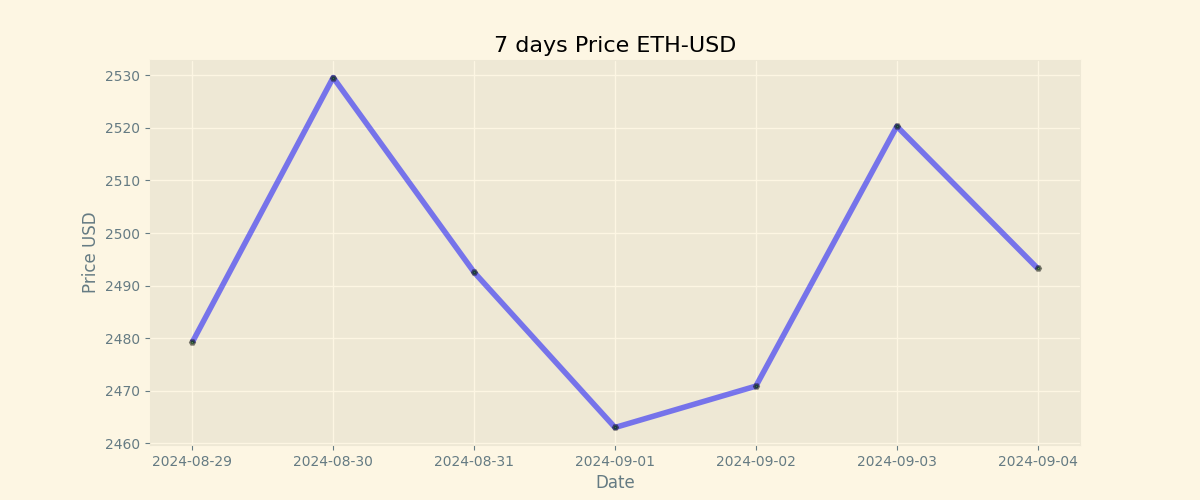
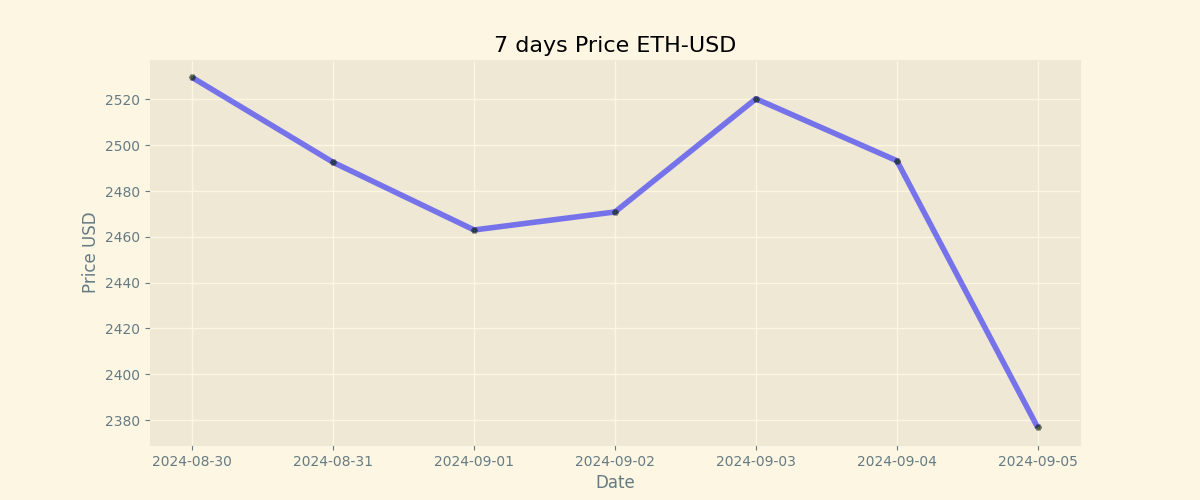
Duty Updates 2024-09-05

diff --git a/README.md b/README.md
@@ -9,8 +9,8 @@
 
 | Currency | Price           |
 | -------- | --------------- |
-| **BTC**  | **$ 59025.31** |
-| **ETH**  | **$ 2493.26** |
+| **BTC**  | **$ 56869.42** |
+| **ETH**  | **$ 2376.77** |
 
 ## BTC chart
 
